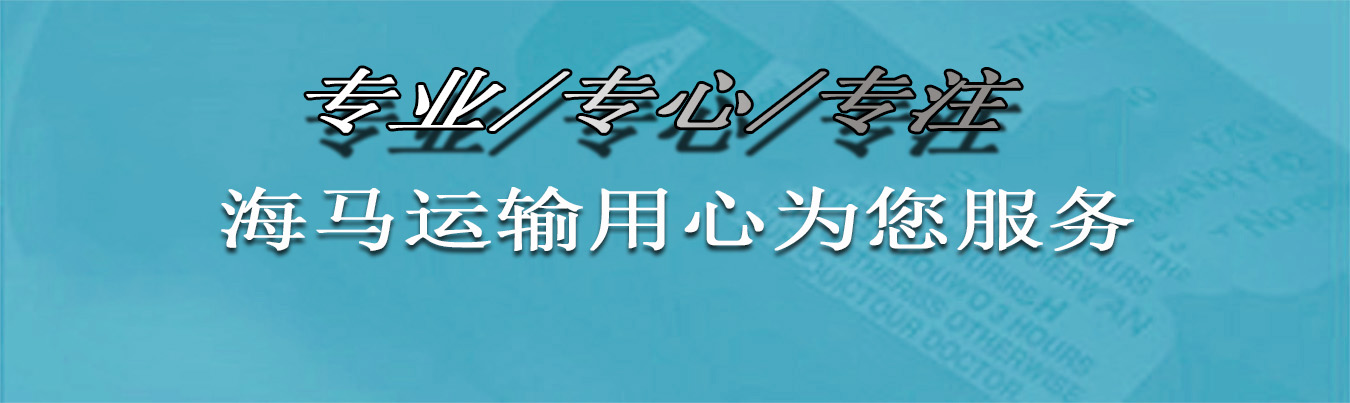
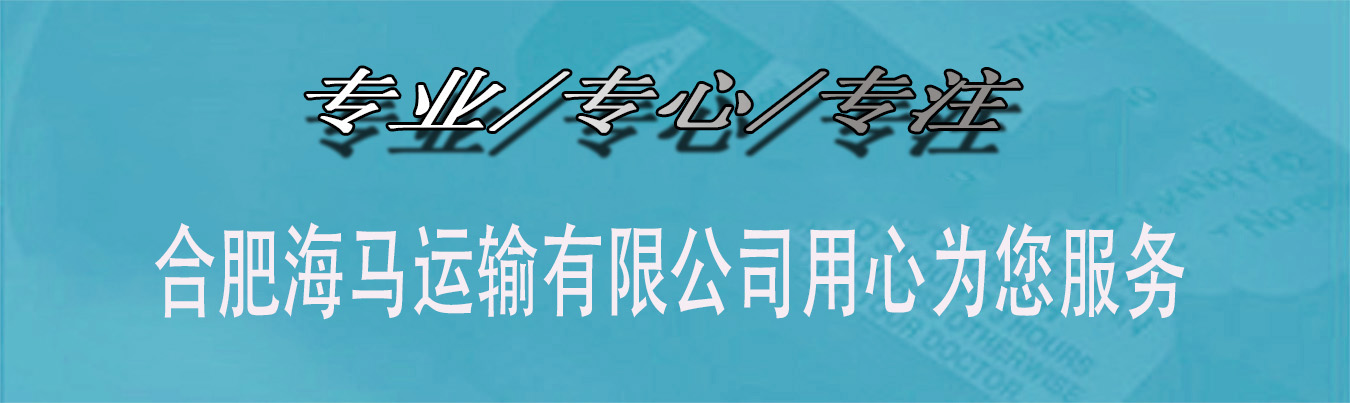
默认的

Changed region(s): [[0.0933, 0.4467, 0.9022, 0.804]]

diff --git a/templates/relation.html b/templates/relation.html
@@ -37,8 +37,8 @@
 {#        <div class="rel-map">#}
 {#            <iframe id="mapPage" width="100%" height="100%" frameborder=0#}
 {#                src="http://apis.map.qq.com/tools/locpicker?search=1&type=1&key=OB4BZ-D4W3U-B7VVO-4PJWW-6TKDJ-WPB77&referer=myapp">#}
-{#                src="http://apis.map.qq.com/tools/poimarker?type=1&keyword=产业园&center=31.9223210000,117.2767840000&radius=1000&key=OB4BZ-D4W3U-B7VVO-4PJWW-6TKDJ-WPB77&referer=myapp">#}
-{#                src="http://apis.map.qq.com/tools/routeplan/eword=合肥瑶海区&epointx=31.8579700000&epointy=117.3094900000?referer=myapp&key=OB4BZ-D4W3U-B7VVO-4PJWW-6TKDJ-WPB77">#}
+{#                src="http://apis.map.qq.com/tools/poimarker?type=1&keyword=产业园&center=31.8757666564,117.3114418353&radius=1000&key=OB4BZ-D4W3U-B7VVO-4PJWW-6TKDJ-WPB77&referer=myapp">#}
+{#                src="http://apis.map.qq.com/tools/routeplan/eword=合肥瑶海区&epointx=31.8757666564&epointy=117.3114418353?referer=myapp&key=OB4BZ-D4W3U-B7VVO-4PJWW-6TKDJ-WPB77">#}
 {#            </iframe>#}
 {##}
 {#        </div>#}
@@ -49,7 +49,7 @@
         <div class="pr-content-in">
             <div class="footer-1" style="width: 250px">
                 <div >联系我们</div>
-                <p class="fa fa-map-marker">地址：合肥市庐阳区耀远路工投产业园1号楼8017</p>
+                <p class="fa fa-map-marker">地址：合肥市瑶海区明光路与胜利路交叉口西北角、恒大中央广场41栋楼商业4楼421、422、423、室</p>
                 <p class="fa fa-phone-square">全国服务热线：0551-64522579</p>
                 <p class="fa fa-phone">24小时服务热线：13295516592</p>
                 <p class="fa fa-qq">QQ号：719285175</p>
@@ -88,7 +88,7 @@
         //创建地图函数：
         function createMap(){
             var map = new BMap.Map("dituContent");//在百度地图容器中创建一个地图
-            var point = new BMap.Point(117.282008,31.927818);//定义一个中心点坐标
+            var point = new BMap.Point(117.304128,31.882473);//定义一个中心点坐标
             map.centerAndZoom(point,17);//设定地图的中心点和坐标并将地图显示在地图容器中
             window.map = map;//将map变量存储在全局
         }
@@ -115,7 +115,7 @@
         }
 
         //标注点数组
-         var markerArr = [{title:"海马运输有限公司",content:"我的备注",point:"117.281478|31.928737",isOpen:0,icon:{w:23,h:25,l:69,t:21,x:9,lb:12}}
+         var markerArr = [{title:"合肥海马运输有限公司",content:"我的备注",point:"117.304128|31.882473",isOpen:0,icon:{w:23,h:25,l:69,t:21,x:9,lb:12}}
           ];
         //创建marker
         function addMarker(){
@@ -167,7 +167,7 @@
         }
         //创建一个Icon
         function createIcon(json){
-            var icon = new BMap.Icon("http://app.baidu.com/map/images/us_mk_icon.png", new BMap.Size(json.w,json.h),{imageOffset: new BMap.Size(-json.l,-json.t),infoWindowOffset:new BMap.Size(json.lb+5,1),offset:new BMap.Size(json.x,json.h)})
+            var icon = new BMap.Icon("http://www.hfhaima.cn/static/image/ico.ico", new BMap.Size(json.w,json.h),{imageOffset: new BMap.Size(-json.l,-json.t),infoWindowOffset:new BMap.Size(json.lb+5,1),offset:new BMap.Size(json.x,json.h)})
             return icon;
         }
 

diff --git a/templates/home.html b/templates/home.html
@@ -359,7 +359,7 @@
         <div class="pg-footer">
             <div class="footer-1" style="width: 250px">
                 <p>联系信息：</p>
-                <p class="fa fa-map-marker">地址：合肥市庐阳区耀远路工投产业园1号楼8017</p>
+                <p class="fa fa-map-marker">地址：合肥市瑶海区明光路与胜利路交叉口西北角、恒大中央广场41栋楼商业4楼421、422、423、室</p>
                 <p class="fa fa-phone-square">全国服务热线：0551-64522579</p>
                 <p class="fa fa-phone">24小时服务热线：13295516592</p>
                 <p class="fa fa-qq">QQ号：719285175</p>
